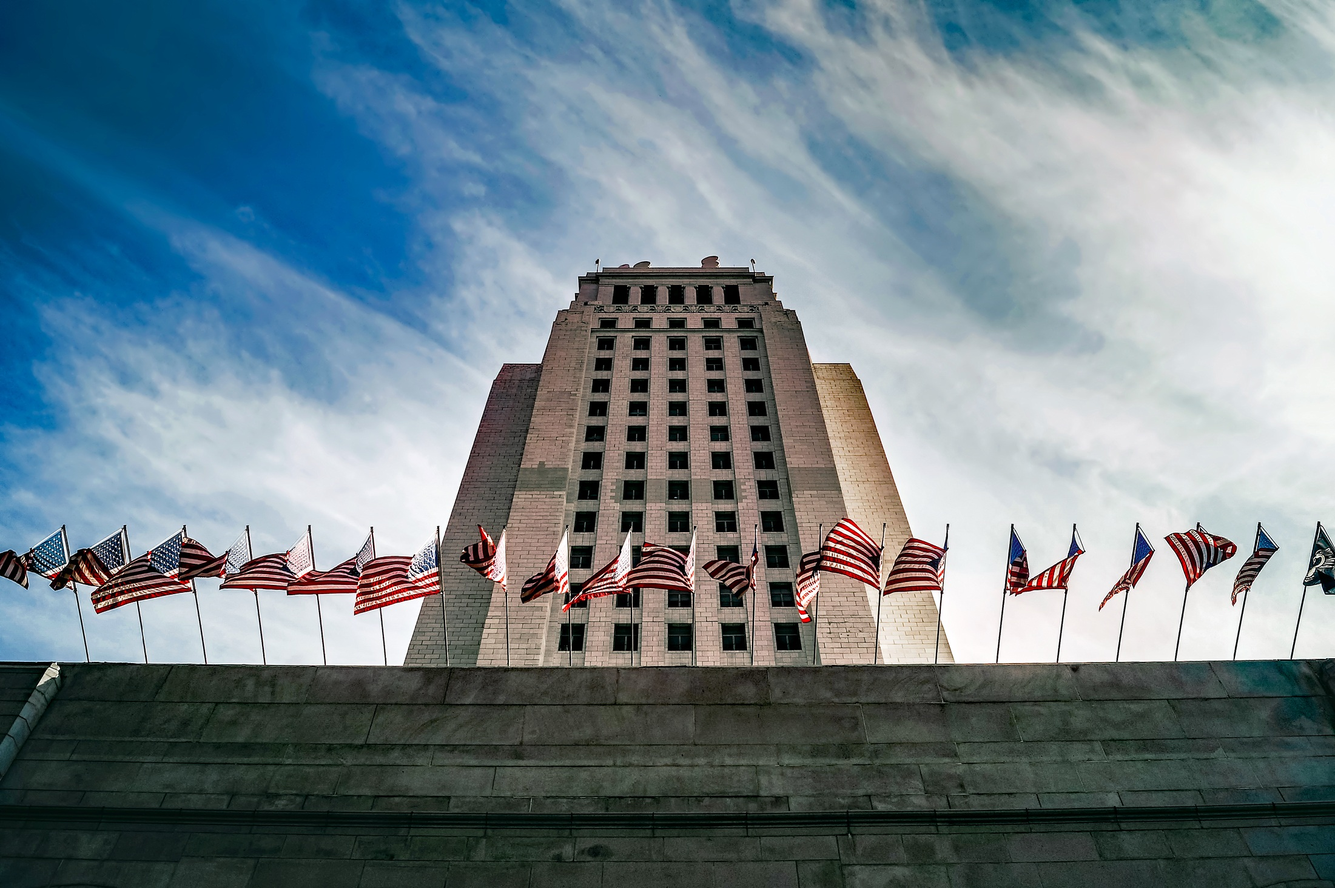
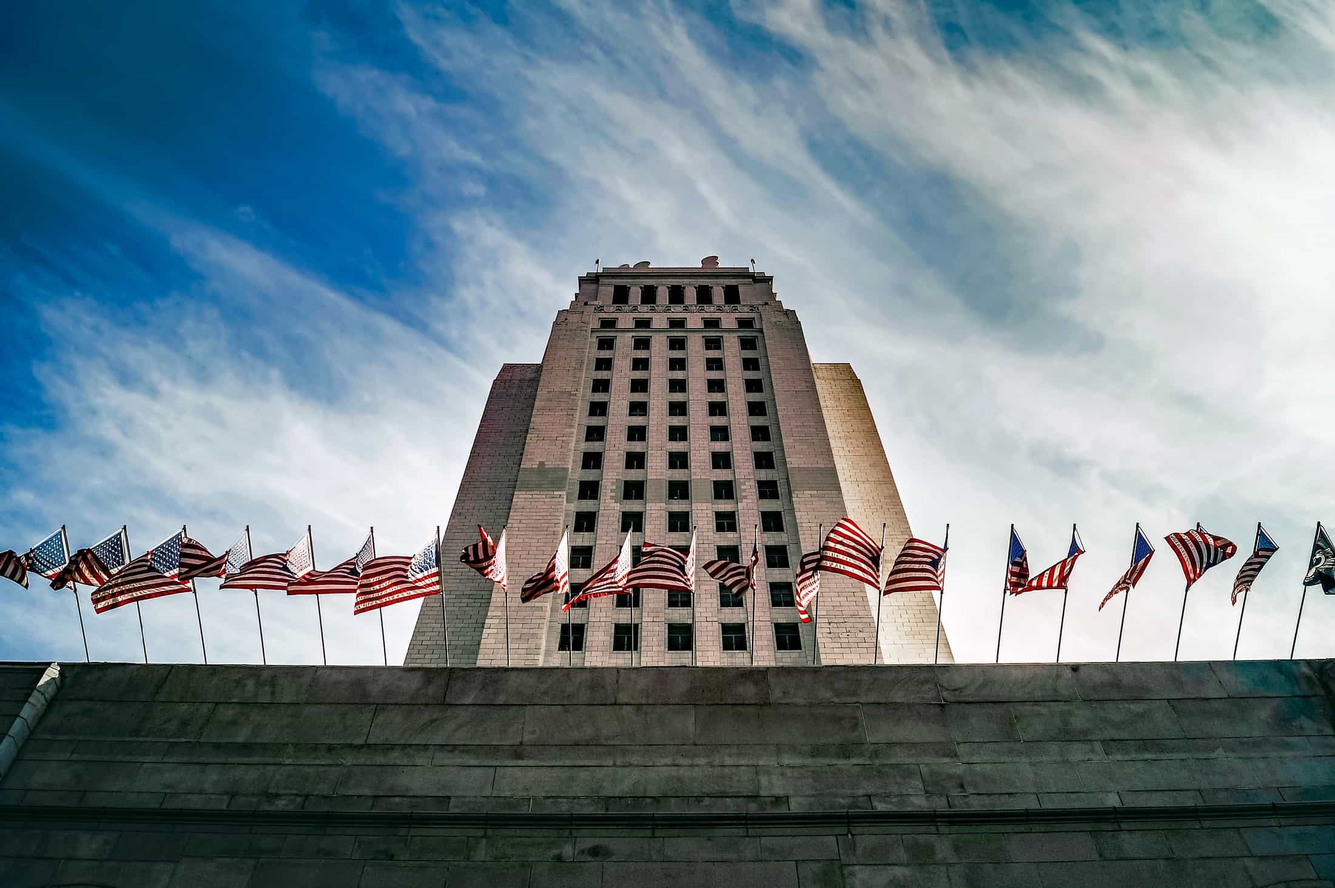
reduce img sizes

diff --git a/src/pages/index.js b/src/pages/index.js
@@ -343,15 +343,9 @@ const shuffledArray = xah_randomize_array(otherPlaces);
 class Index extends React.Component {
   constructor(props) {
     super(props);
-    this.state = {
-      backgroundImage: null,
-    };
     this.clickSuggestion = this.clickSuggestion.bind(this);
     this.clickDiscoverMore = this.clickDiscoverMore.bind(this);
     this.clickGridItem = this.clickGridItem.bind(this);
-  }
-
-  componentDidMount() {
     const backgroundImages = [
       <Img
         title="United States Capitol"
@@ -406,10 +400,15 @@ class Index extends React.Component {
         }}
       />,
     ];
+   this.bg = backgroundImages[Math.floor(Math.random() * backgroundImages.length)]
+  }
+
+  componentDidMount() {
     const { dispatch } = this.props;
-    dispatch(getLocation);
-    dispatch(trackView('index', null, null, null));
-    this.setState({ backgroundImage: backgroundImages[Math.floor(Math.random() * backgroundImages.length)] });
+    if (this.props.location.pathname === '/'){
+        dispatch(getLocation);
+        dispatch(trackView('index', null, null, null));
+    }
   }
 
   clickSuggestion(url, name, index){
@@ -468,6 +467,7 @@ otherLinks.push((
     const stateServicesConcat = stateServices.slice(0, 4);
 
     
+
     return (
       <Fragment>
         <Helmet defaultTitle={`Localgov.fyi | Search for local government organizations, and services`} titleTemplate={`%s | Localgov.fyi`}>
@@ -486,7 +486,7 @@ otherLinks.push((
           </Typography>
         </AppBar>
         <div className={classes.searchWrapper}>
-          {this.state.backgroundImage}
+          {this.bg}
           <Grid container spacing={0} className={!isMobileOnly ? classes.landingSearch : classes.landingSearchMobile}>
             <Grid item xs={1} sm={2} md={2} />
             <Grid item xs={10} sm={8} md={8} className={classes.appSubHeaderTextWrapper}>
